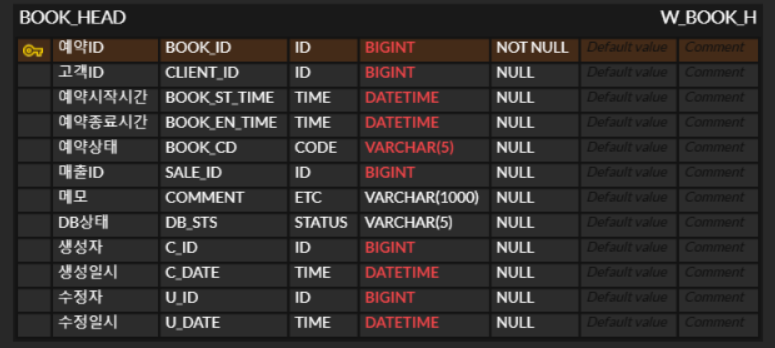
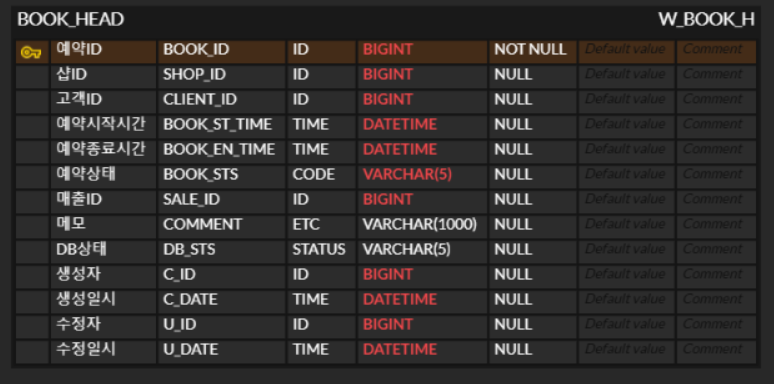
build :패키지 구조 생성
패키지 구조 생성
DB Table 변경

diff --git a/src/main/java/wr/app/entity/BaseEntity.java b/src/main/java/wr/app/entity/BaseEntity.java
@@ -1,0 +1,38 @@
+package wr.app.entity;
+
+
+import jakarta.persistence.Column;
+import jakarta.persistence.EntityListeners;
+import jakarta.persistence.MappedSuperclass;
+import lombok.Getter;
+import lombok.Setter;
+import org.springframework.data.annotation.CreatedBy;
+import org.springframework.data.annotation.CreatedDate;
+import org.springframework.data.annotation.LastModifiedBy;
+import org.springframework.data.annotation.LastModifiedDate;
+import org.springframework.data.jpa.domain.support.AuditingEntityListener;
+
+import java.time.LocalDateTime;
+
+@MappedSuperclass
+@EntityListeners(AuditingEntityListener.class)
+@Getter
+@Setter
+public abstract class BaseEntity {
+
+    private String dbSts;
+
+    @CreatedBy
+    @Column(updatable = false)
+    private String cId;
+
+    @CreatedDate
+    @Column(updatable = false)
+    private LocalDateTime cDate;
+
+    @LastModifiedBy
+    private String uId;
+
+    @LastModifiedDate
+    private LocalDateTime uDate;
+}

diff --git a/src/main/java/wr/app/entity/book/BookH.java b/src/main/java/wr/app/entity/book/BookH.java
@@ -6,12 +6,13 @@ import jakarta.persistence.Id;
 import jakarta.persistence.Table;
 import lombok.Getter;
 import lombok.Setter;
+import wr.app.entity.BaseEntity;
 
 
 @Entity
 @Getter @Setter
 @Table(name = "w_book_h")
-public class BookH {
+public class BookH extends BaseEntity {
 
     @Id
     @Column(name="BOOK_ID")
@@ -36,9 +37,5 @@ public class BookH {
     book_sts varchar(5)	,
     sale_id	bigint	,
     comment	varchar(1000)	,
-    db_sts	varchar(5)	,
-    c_id	bigint	,
-    c_date	datetime	,
-    u_id	bigint	,
-    u_date	datetime*/
+    */
 }

diff --git a/src/main/java/wr/app/service/impl/book/BookServiceImpl.java b/src/main/java/wr/app/service/impl/book/BookServiceImpl.java
@@ -1,0 +1,9 @@
+package wr.app.service.impl.book;
+
+import org.springframework.stereotype.Service;
+import wr.app.service.book.BookService;
+
+@Service
+public class BookServiceImpl implements BookService {
+
+}

diff --git a/src/main/java/wr/app/service/book/BookService.java b/src/main/java/wr/app/service/book/BookService.java
@@ -1,0 +1,6 @@
+package wr.app.service.book;
+
+public interface BookService {
+
+
+}

diff --git a/src/main/java/wr/app/controller/BookController.java b/src/main/java/wr/app/controller/BookController.java
@@ -1,0 +1,4 @@
+package wr.app.controller;
+
+public class BookController {
+}
